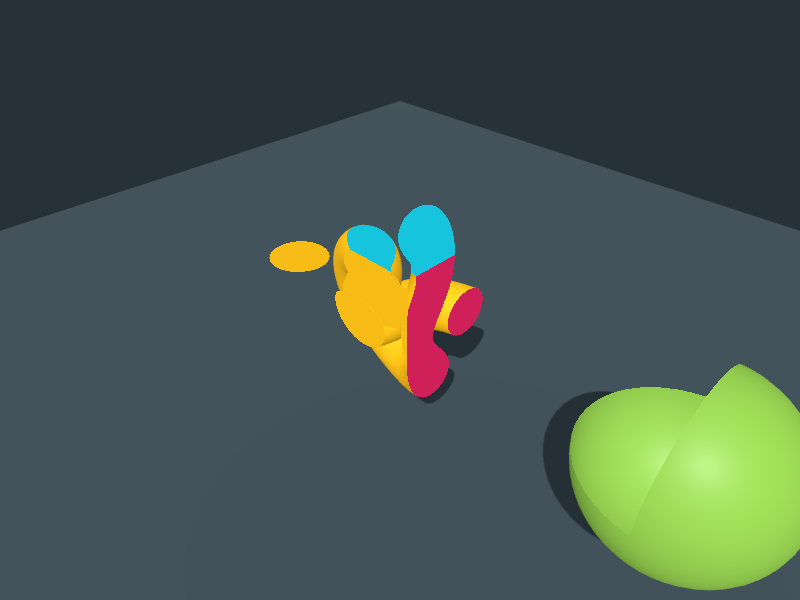
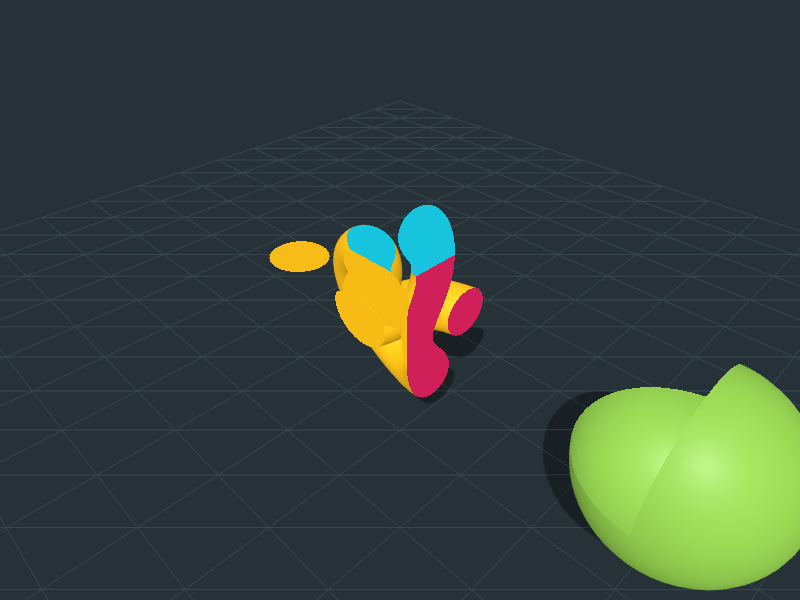
M8d: ShadowMaterial, MeshDistanceMaterial, cut-out shadows, alphaHash
ShadowMaterial (colour where shadows fall) and MeshDistanceMaterial;
casters cut their shadows with alphaTest/alphaHash (map alpha and
alphaMap, a cut-out fragment stage in shadow passes), are displaced by
their displacementMap, honour shadowSide, and use customDepthMaterial or
customDistanceMaterial when set. alphaHash ports three.js's hashed alpha;
alphaToCoverage renders as it. The Shadows example gains a lattice and a
hashed sphere; Clipping's ground is a ShadowMaterial over a grid.

diff --git a/docs/DEVIATIONS.md b/docs/DEVIATIONS.md
@@ -236,6 +236,17 @@ export class Demo extends Layout {
   `extensions`, `lights`, `fog`, `wireframe` and custom points/lines are not
   supported for shader materials.
 
+## ShadowMaterial, MeshDistanceMaterial, alpha hashing
+
+- `ShadowMaterial({ color, opacity })` is transparent except where the
+  mesh (with `receiveShadow`) is in shadow, as three.js.
+- `MeshDistanceMaterial` draws the normalised distance to
+  `referencePosition` as grey (three.js packs it to RGBA for its point
+  light shadows, which this renderer does not need).
+- `alphaHash` as three.js (hashed threshold on the object-space position).
+  **`alphaToCoverage` renders as `alphaHash`**: Rive pipelines have no
+  alpha to coverage.
+
 ## Clipping, stencil and depth state
 
 - `renderer.clippingPlanes` (global, always a union),
@@ -387,9 +398,13 @@ export class Demo extends Layout {
   largest `mapSize` (256 to 2048). Lights beyond 12 layers cast no shadow.
 - `VSMShadowMap` renders as `PCFSoftShadowMap` (PCF 5x5); `shadow.radius`
   scales the PCF step.
-- Casters always render their back faces (`shadowSide` is not read) and
-  ignore `alphaTest`/`alphaMap` (no cut-out shadows) and
-  `customDepthMaterial`. Point light faces are rendered at 98 degrees so
+- Casters render the side three.js picks (`shadowSide`, else the
+  opposite of `side`); casters with `alphaTest`, `alphaHash` or
+  `alphaToCoverage` cut their shadows with their `map` alpha and
+  `alphaMap`, displacement maps displace them, and
+  `object.customDepthMaterial` (else `customDistanceMaterial`; one
+  material serves every light) stands in for the material in shadow
+  passes. Point light faces are rendered at 98 degrees so
   filtering stays inside a face.
 - Directional shadow cameras are not fitted automatically, as in three.js:
   set `shadow.camera.left/right/top/bottom/near/far` and call

diff --git a/PLAN.md b/PLAN.md
@@ -219,7 +219,7 @@ render as authored.
   `localClippingEnabled`, `material.clippingPlanes`, `clipIntersection`,
   `clipShadows`; material stencil state (`stencilWrite`, `stencilFunc`,
   `stencilRef`, masks and ops) on Rive's stencil pipelines.
-- **M8d, shadow and alpha options.** ShadowMaterial, MeshDistanceMaterial,
+- **M8d, shadow and alpha options (done; alphaToCoverage as alphaHash).** ShadowMaterial, MeshDistanceMaterial,
   alpha-tested shadows and `customDepthMaterial` /
   `customDistanceMaterial`, `shadowSide`, `alphaHash`, `alphaToCoverage`.
 - **M8e, shader material reach.** A WGSL chunk library (three.js's
